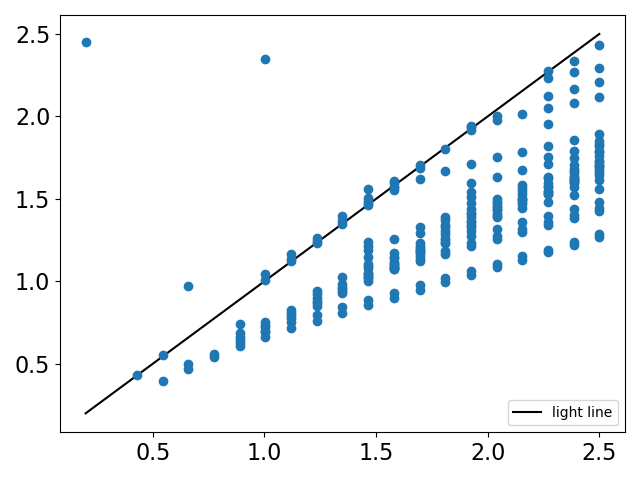
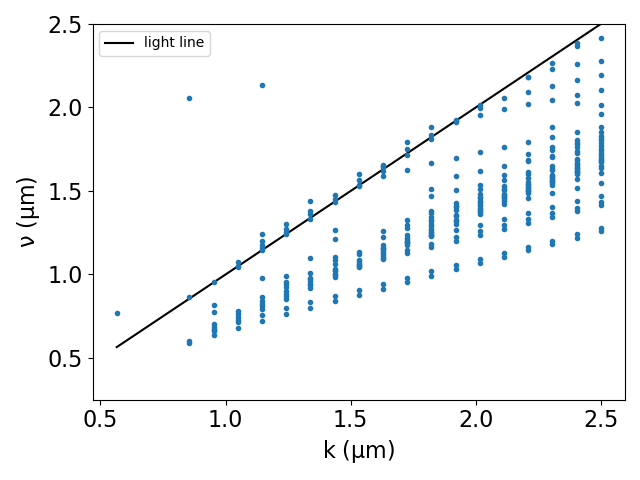
plotting update

diff --git a/3D_LiNbO3_wvgd_harminv.py b/3D_LiNbO3_wvgd_harminv.py
@@ -16,8 +16,8 @@ clipboard_and_style_sheet.style_sheet()
 """Geometry """
 
 # minimum and maximum wavelength
-# wl_min, wl_max = 1.4, 1.6
-wl_min, wl_max = 1 / np.array(mt.LiNbO3.valid_freq_range)[::-1]
+wl_min, wl_max = .4, 1.77
+# wl_min, wl_max = 1 / np.array(mt.LiNbO3.valid_freq_range)[::-1]
 
 # %%____________________________________________________________________________________________________________________
 # parameters to calculate for the cell
@@ -61,10 +61,10 @@ boundary_layers = [*ABSList, *PMLList]
 # %%____________________________________________________________________________________________________________________
 bw = np.array([1 / wl_max, 1 / wl_min])
 f_src = float(np.diff(bw) / 2 + bw[0])
-# blk1.material = mp.Medium(epsilon=mt.LiNbO3.epsilon(f_src)[2, 2])
-# blk2.material = mp.Medium(epsilon=mt.SiO2.epsilon(f_src)[2, 2])
-blk1.material = mt.LiNbO3
-blk2.material = mt.SiO2
+blk1.material = mp.Medium(epsilon=mt.LiNbO3.epsilon(f_src)[2, 2])
+blk2.material = mp.Medium(epsilon=mt.SiO2.epsilon(f_src)[2, 2])
+# blk1.material = mt.LiNbO3
+# blk2.material = mt.SiO2
 
 # %%____________________________________________________________________________________________________________________
 # I like to think of the simulation as tied to the simulation cell
@@ -74,7 +74,7 @@ sim = mp.Simulation(
     cell_size=cell,
     geometry=geometry,
     boundary_layers=boundary_layers,
-    resolution=40)
+    resolution=20)
 
 sim.use_output_directory('sim_output')
 
@@ -104,5 +104,8 @@ plt.figure()
 plt.plot([kx.min(), kx.max()], [kx.min(), kx.max()], 'k', label='light line')
 for n in range(len(freq)):
     if len(freq[n]) > 0:
-        [plt.plot(kx[n], i.real, marker='o', color='C0') for i in freq[n]]
+        [plt.plot(kx[n], i.real, marker='.', color='C0') for i in freq[n]]
 plt.legend(loc='best')
+plt.xlabel("k ($\mathrm{\mu m}$)")
+plt.ylabel("$\mathrm{\\nu}$ ($\mathrm{\mu m}$)")
+plt.ylim(.25, 2.5)

diff --git a/3D_LiNbO3_wvgd_MPB.py b/3D_LiNbO3_wvgd_MPB.py
@@ -101,10 +101,13 @@ sim = mp.Simulation(cell_size=lattice.size,
 
 plt.figure()
 kx = np.array([i.x for i in k_points])
-plt.plot(kx, FREQ[:, 0], 'o-')
-plt.plot(kx, FREQ[:, 1], 'o-')
-plt.plot(kx, FREQ[:, 2], 'o-')
-plt.plot(kx, FREQ[:, 3], 'o-')
+plt.plot(kx, FREQ[:, 0], '.-')
+plt.plot(kx, FREQ[:, 1], '.-')
+plt.plot(kx, FREQ[:, 2], '.-')
+plt.plot(kx, FREQ[:, 3], '.-')
 plt.plot(kx, kx, 'k', label='light line')
-plt.plot(kx, kx / EPS_SBSTRT, 'k--', label='light line substrate')
+# plt.plot(kx, kx / EPS_SBSTRT, 'k--', label='light line substrate')
 plt.legend(loc='best')
+plt.xlabel("k ($\mathrm{\mu m}$)")
+plt.ylabel("$\mathrm{\\nu}$ ($\mathrm{\mu m}$)")
+plt.ylim(.25, 2.5)
